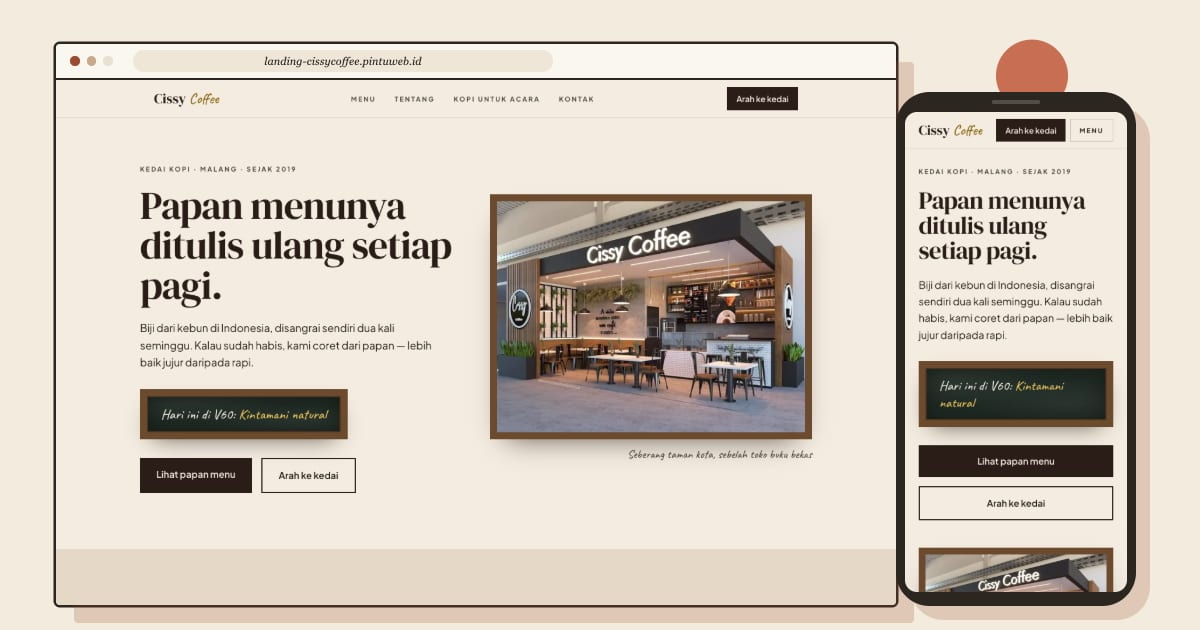
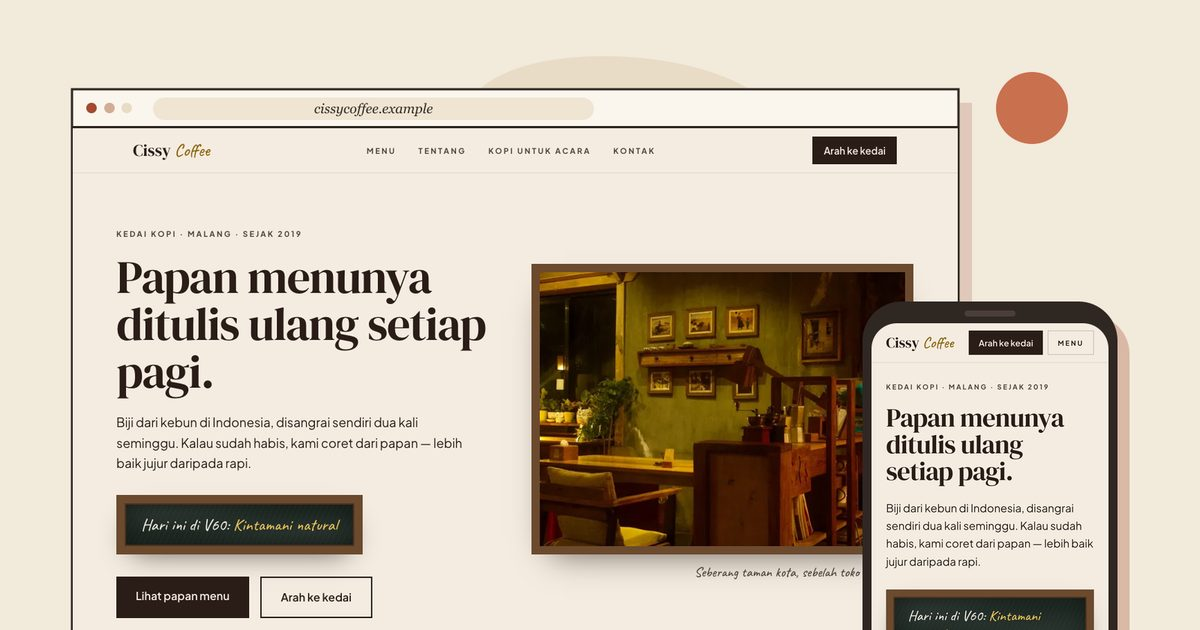
Celeste: wajah polos pada ilustrasi hero/about, mockup karya ditangkap ulang tanpa nama domain, SUMBER.md, og diperbarui

diff --git a/lib/data.js b/lib/data.js
@@ -8,8 +8,8 @@ export const profile = {
   "email": "studio@celeste.example",
   "avatar": "/images/hero.webp",
   "about": "/images/about.webp",
-  "avatarAlt": "Risograph-style portrait of Celeste in a terracotta patterned hijab",
-  "aboutAlt": "Risograph-style illustration of Celeste in her studio, a menu card, recipe card, invitation and colour swatches pinned behind her",
+  "avatarAlt": "Risograph-style faceless illustration of Celeste in a terracotta patterned hijab",
+  "aboutAlt": "Risograph-style faceless illustration of Celeste in her studio, a menu card, recipe card, invitation and colour swatches pinned behind her",
   "intro": "Brands built from habits — the menu board, the recipe card, the invitation.",
   "bioShort": "Brand designer and art director for food, hospitality, and the occasions in between.",
   "bio": [

diff --git a/public/images/SUMBER.md b/public/images/SUMBER.md
@@ -1,0 +1,16 @@
+# Sumber gambar, situs portofolio Celeste (persona fiktif)
+
+Celeste adalah tokoh rekaan. Tidak ada foto orang, tidak ada testimoni.
+
+| Berkas | Isi | Asal | Lisensi |
+| --- | --- | --- | --- |
+| hero.webp | Ilustrasi tokoh berwajah polos (tanpa wajah), gaya risograf terakota | Dibuat sendiri; sumber `design/hero.svg` | Karya sendiri |
+| about.webp | Ilustrasi tokoh berwajah polos di depan papan inspirasi | Dibuat sendiri; sumber `design/about.svg` | Karya sendiri |
+| work/cissycoffee.webp | Mockup laptop dan ponsel halaman Cissy Coffee | Tangkapan layar situs contoh kami sendiri (30 Okt 2026), dirakit dalam bingkai mockup | Karya sendiri; foto interior di dalamnya tercatat di SUMBER.md proyek landing-cissycoffee |
+| work/rasanusantara.webp | Mockup halaman Rasa Nusantara | Idem | Karya sendiri / CC0 |
+| work/citarasa.webp | Mockup halaman CitaRasa Digital | Idem | Karya sendiri / CC0 |
+| work/wedding.webp | Mockup halaman undangan Raka & Sinta | Idem | Karya sendiri |
+| work/arsip.webp | Mockup halaman Dara Puspita (perangko berwajah disembunyikan saat memotret) | Idem | Karya sendiri |
+| work/vendra.webp | Mockup halaman Kopi Vendra | Idem; foto minuman tercatat di SUMBER.md proyek linkinbio-vendra | Karya sendiri / CC0 |
+
+`public/og.jpg` adalah tangkapan beranda situs ini; `public/og/work/*.jpg` dipangkas dari mockup di atas.
